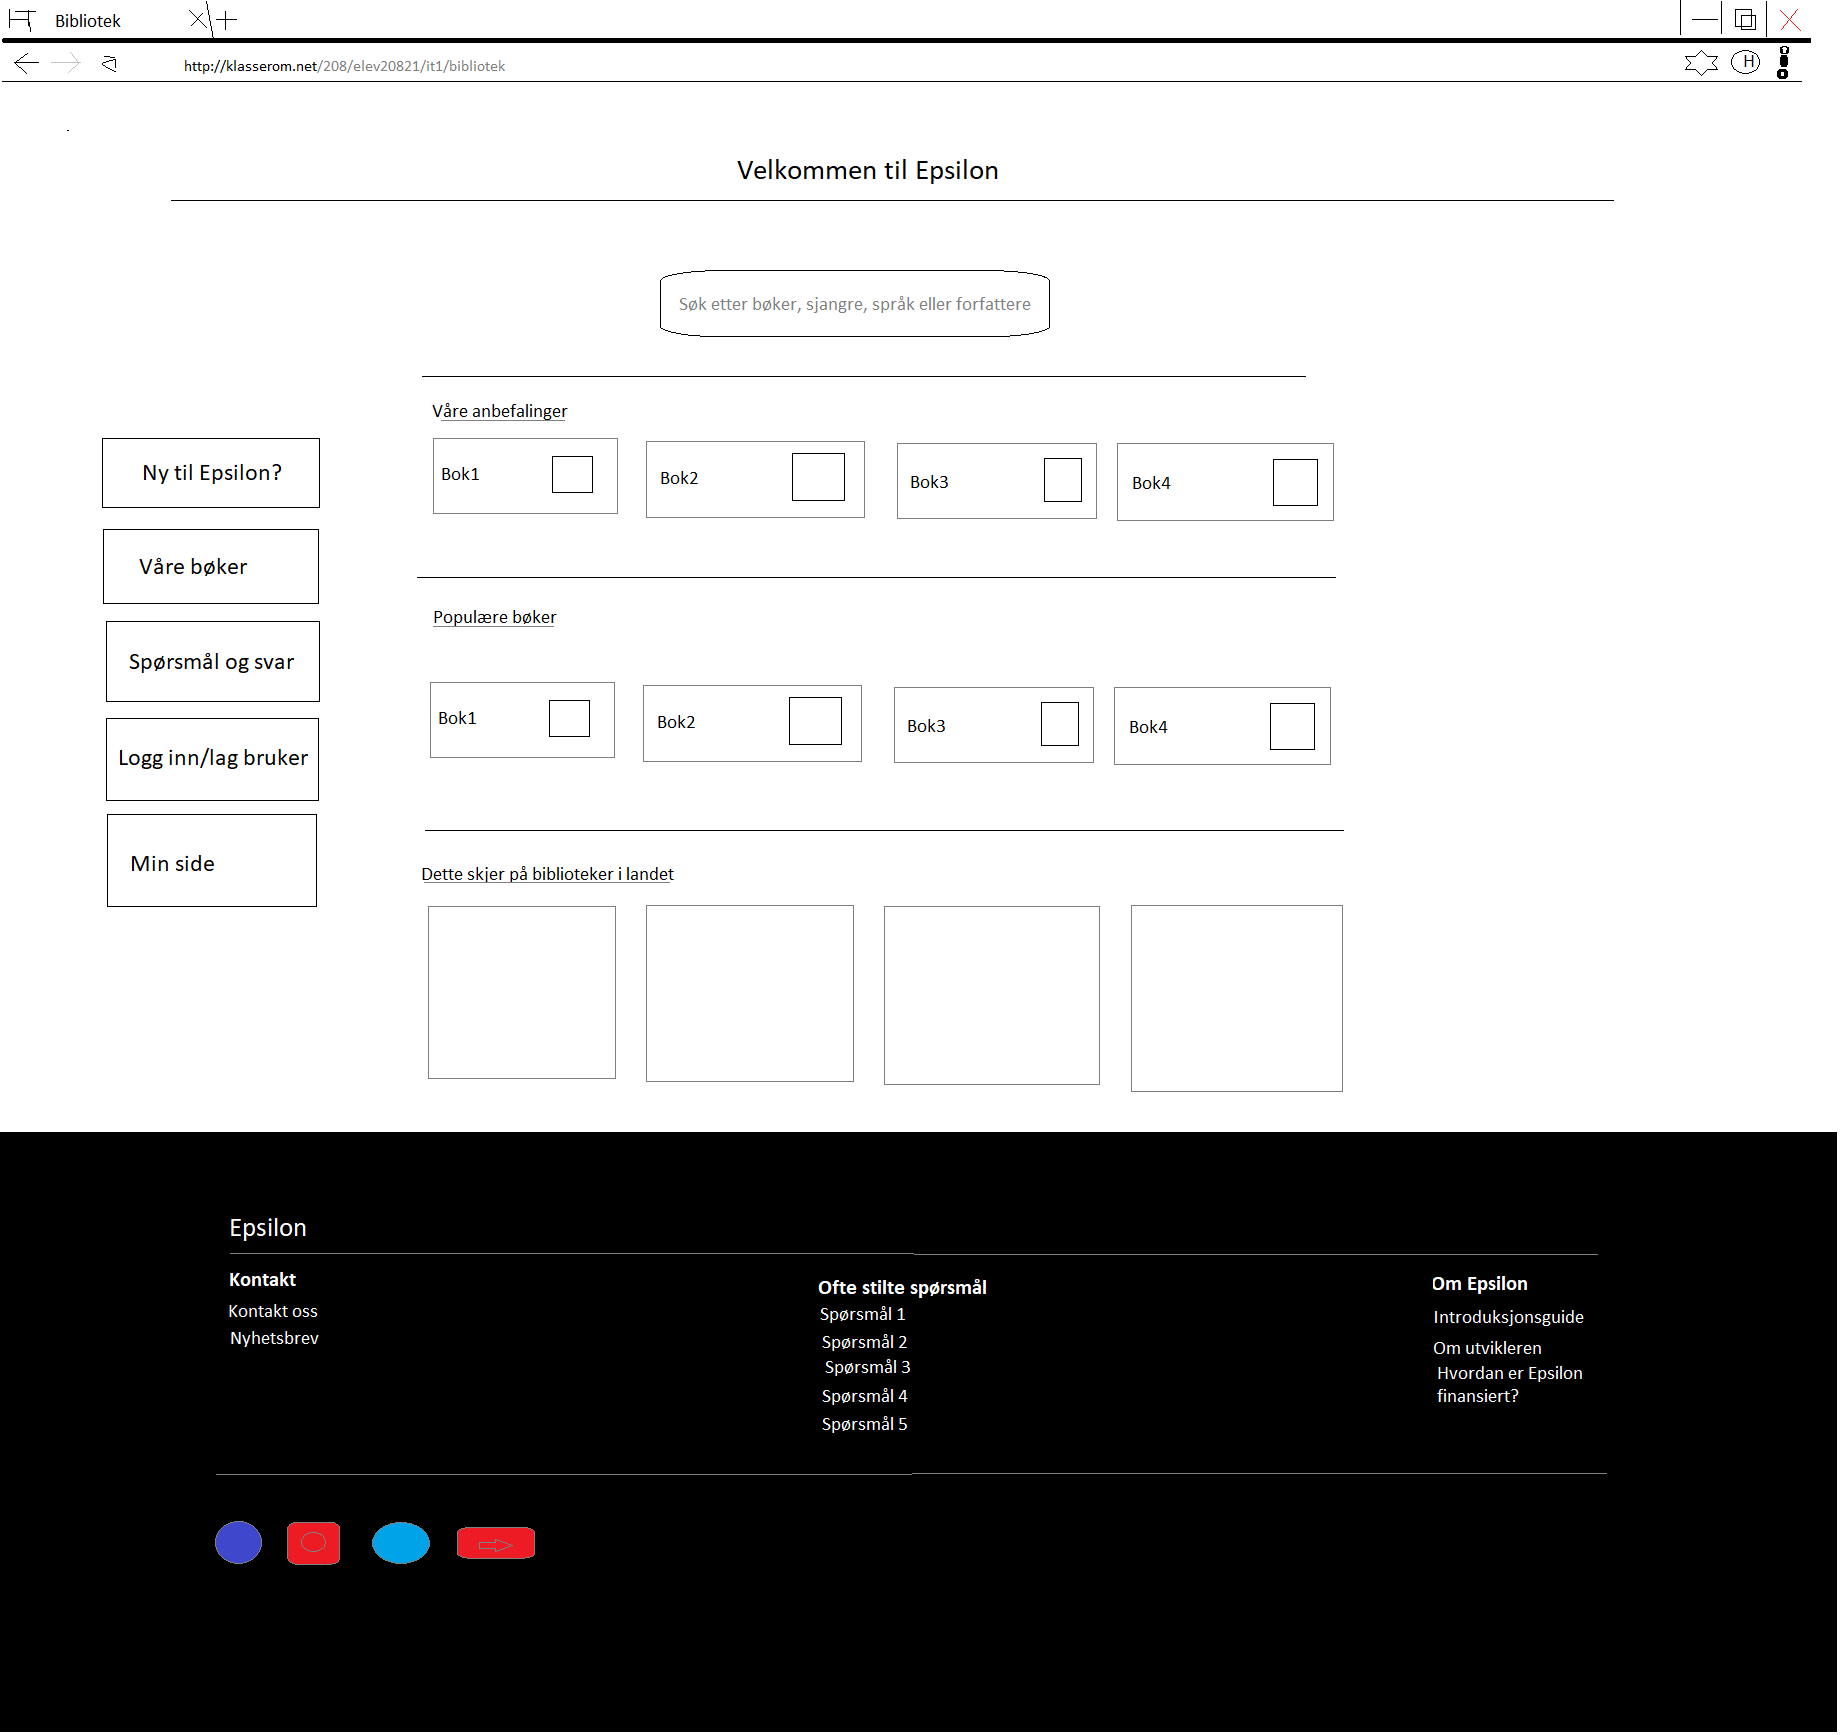
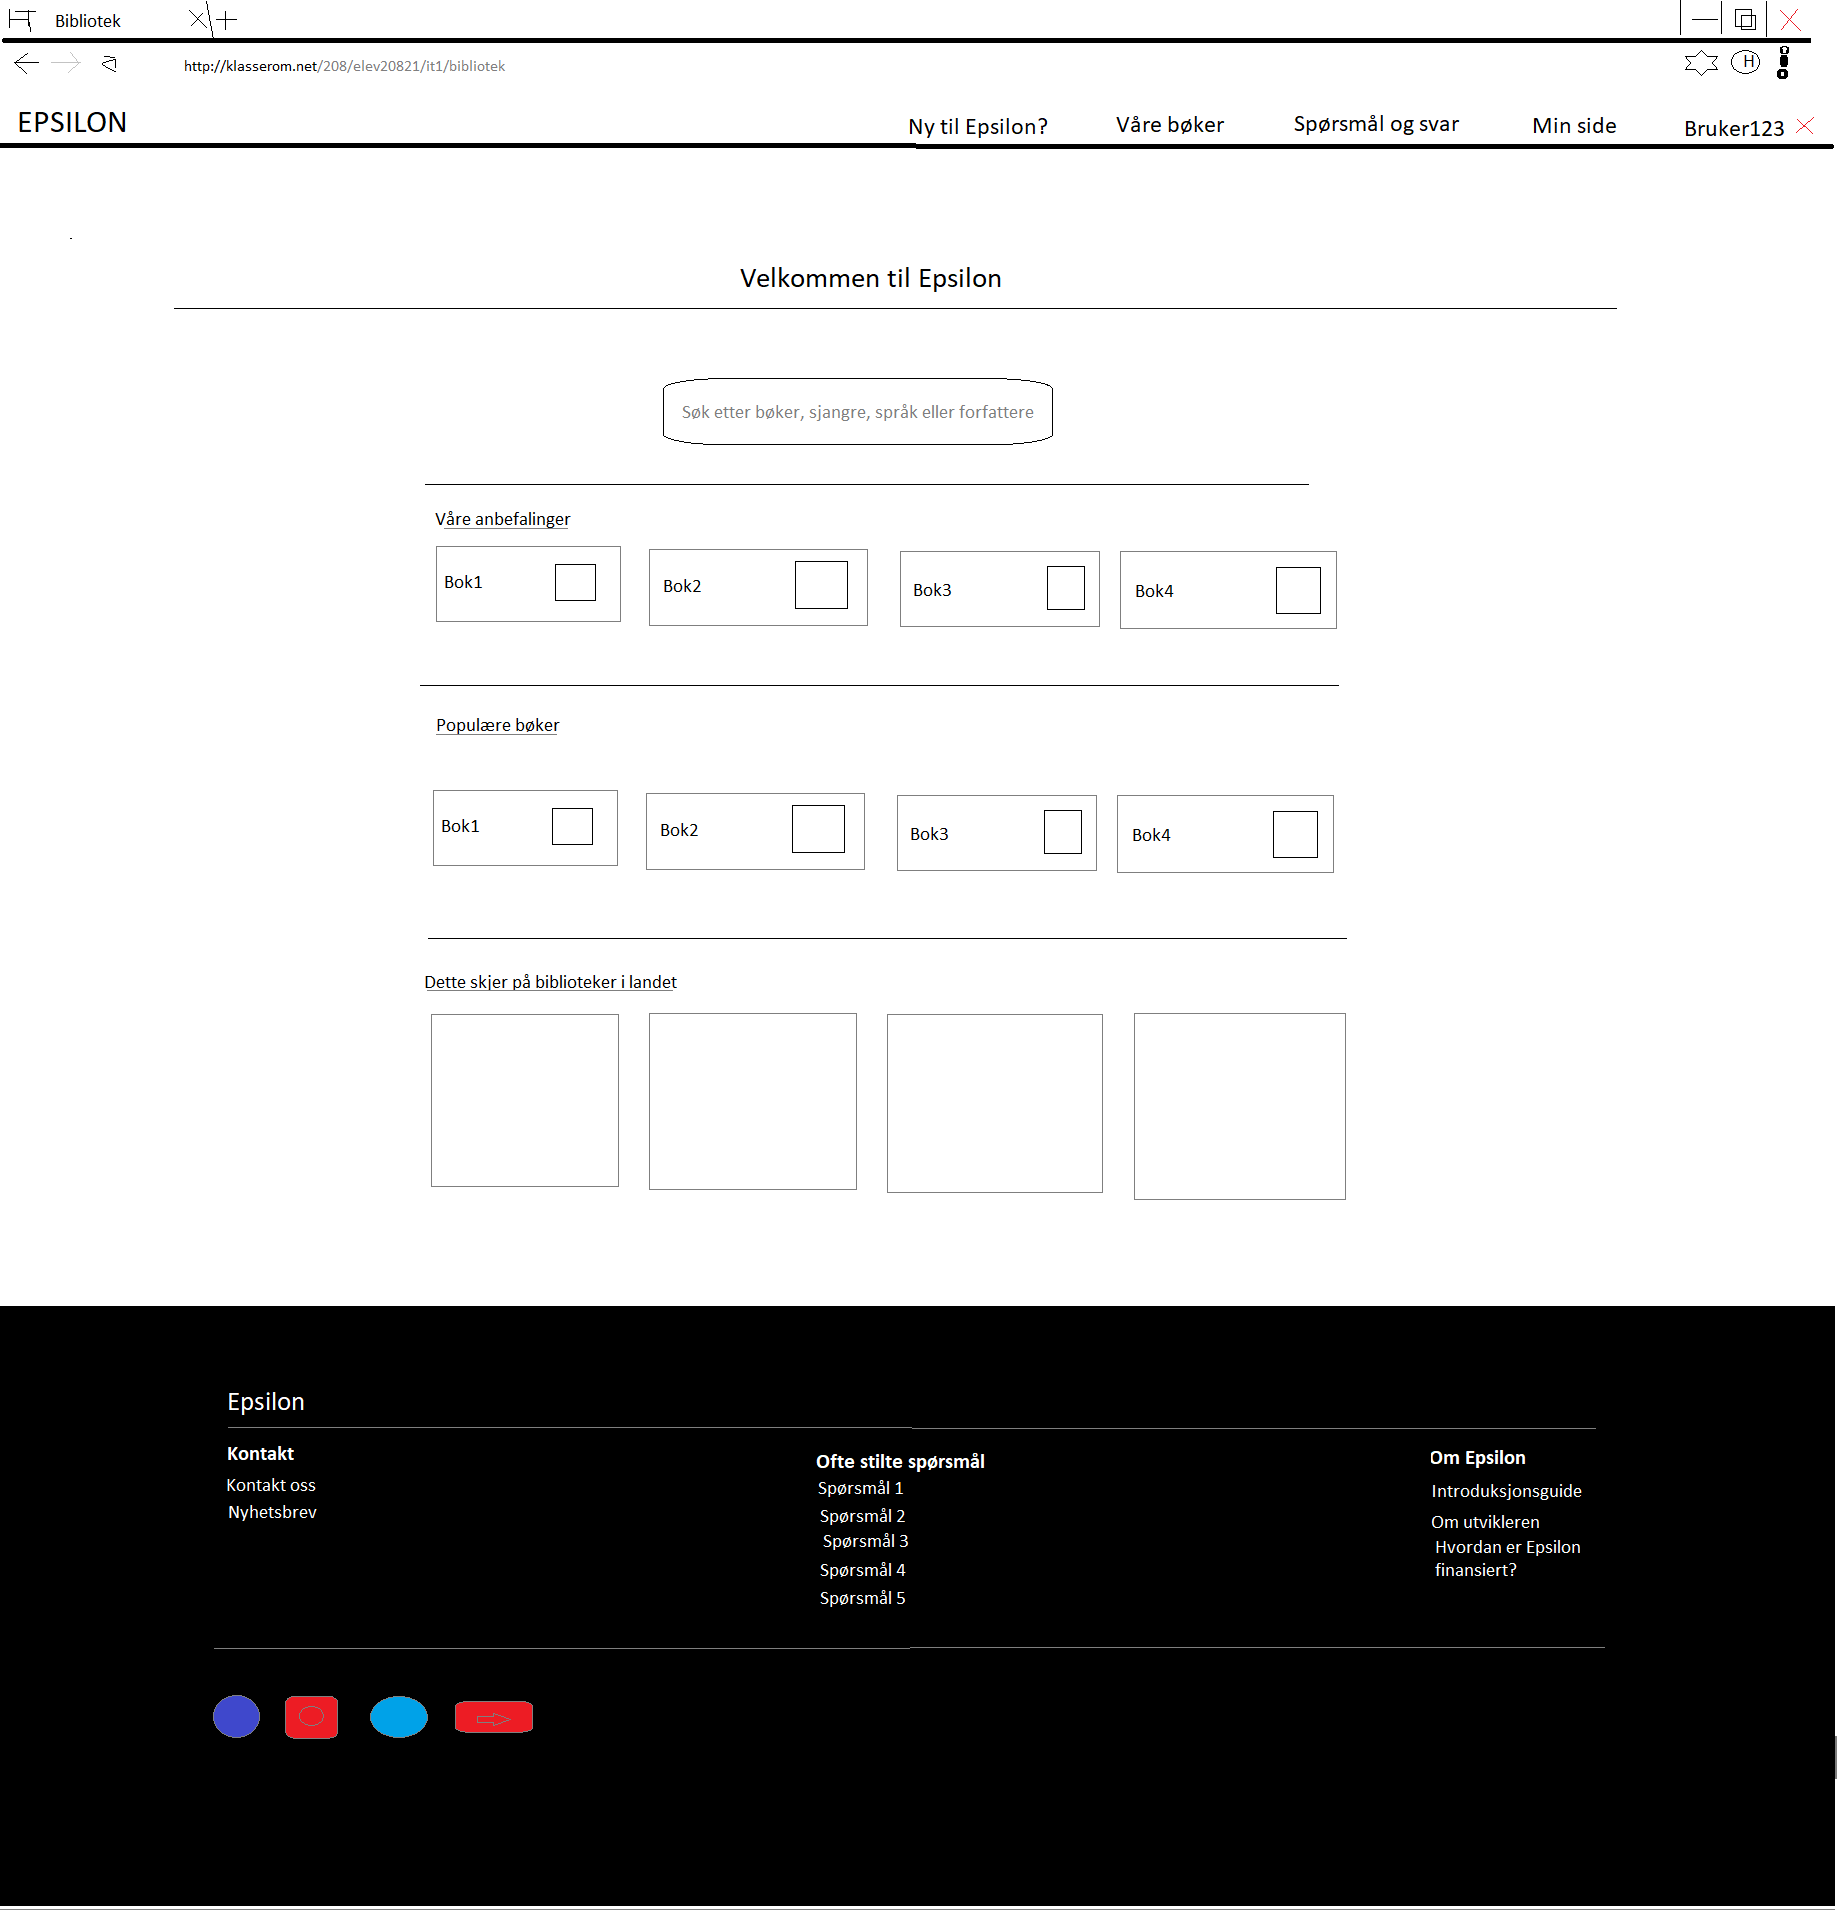
20.04.2020

diff --git a/Bibliotek/index.html b/Bibliotek/index.html
@@ -1,7 +1,7 @@
 <!DOCTYPE html>
 <html>
   <head>
-    <title>Hei!</title>
+    <title>Epsilon</title>
     <link rel="stylesheet" href="css/index.css" />
     <meta charset="UTF-8" />
     <!--<link rel="shortcut icon" href="logoer/favicon.ico" /> -->
@@ -9,19 +9,83 @@
 
   <body>
     <div id="master">
-      <div id="header">
-        <h1>Velkommen til Epsilon</h1>
-      </div>
-      <div id="søkefelt">
-        <p>Søk etter bøker, sjangre, språk eller forfattere</p>
-      </div>
-      <div id="nav-bar"></div>
+      <header class="header">
+        <h1 class="logo"><a href="#">Epsilon</a></h1>
+        <ul class="main-nav">
+          <li><a href="#">Ny til Epsilon?</a></li>
+          <li><a href="#">Våre bøker</a></li>
+          <li><a href="#">Spørsmål og svar</a></li>
+          <li><a href="#">Min side</a></li>
+          <li><a href="#">Bruker123</a></li>
+        </ul>
+      </header>
       <div id="content">
-        <div id="row-1"></div>
-        <div id="row-2">
-          <div class="Bok"></div>
+        <div id="tittel"><h1>Velkommen til Epsilon</h1></div>
+
+        <div id="søkefelt">
+          <form action="result.php" method="POST">
+            <input
+              type="text"
+              id="fornavn"
+              placeholder="Søk etter bøker, sjangre, språk eller forfattere"
+              name="Søk"
+              required
+            />
+
+            <button type="submit">Søk</button>
+          </form>
         </div>
-        <div id="row-3"></div>
+        <div class="row-container">
+          <hr class="linje" />
+          <p>Våre anbefalinger</p>
+          <div class="row">
+            <div class="Bok"><a href="#">bok1</a></div>
+            <div class="Bok"><a href="#">bok2</a></div>
+            <div class="Bok"><a href="#">bok3</a></div>
+            <div class="Bok"><a href="#">bok4</a></div>
+          </div>
+        </div>
+
+        <div class="row-container">
+          <hr class="linje" />
+          <p>Populære bøker</p>
+          <div class="row">
+            <div class="Bok"><a href="#">bok1</a></div>
+            <div class="Bok"><a href="#">bok2</a></div>
+            <div class="Bok"><a href="#">bok3</a></div>
+            <div class="Bok"><a href="#">bok4</a></div>
+          </div>
+        </div>
+        <div class="row-container">
+          <hr class="linje" />
+          <p>Dette skjer på biblioteker rundt om i landet</p>
+          <div class="row">
+            <div class="nyhet">
+              <a
+                href="https://www.ostlendingen.no/fylkesbiblioteket-gar-digitalt-stengte-bibliotek-er-et-demokratisk-problem/s/5-69-920391"
+                >Digitalt bibliotek</a
+              >
+            </div>
+            <div class="nyhet">
+              <a
+                href="https://www.ostlendingen.no/fylkesbiblioteket-gar-digitalt-stengte-bibliotek-er-et-demokratisk-problem/s/5-69-920391"
+                >Digitalt bibliotek</a
+              >
+            </div>
+            <div class="nyhet">
+              <a
+                href="https://www.ostlendingen.no/fylkesbiblioteket-gar-digitalt-stengte-bibliotek-er-et-demokratisk-problem/s/5-69-920391"
+                >Digitalt bibliotek</a
+              >
+            </div>
+            <div class="nyhet">
+              <a
+                href="https://www.ostlendingen.no/fylkesbiblioteket-gar-digitalt-stengte-bibliotek-er-et-demokratisk-problem/s/5-69-920391"
+                >Digitalt bibliotek</a
+              >
+            </div>
+          </div>
+        </div>
       </div>
       <div id="footer"></div>
     </div>

diff --git a/Bibliotek/css/index.css b/Bibliotek/css/index.css
@@ -1,29 +1,168 @@
-h1 {
-  font-size: 40px;
+* {
+  box-sizing: border-box;
 }
-
+body {
+  font-family: "Montserrat", sans-serif;
+  line-height: 1.6;
+  margin: 0;
+  min-height: 100vh;
+  overflow-x: hidden;
+}
 #master {
   position: absolute;
-  background-color: blue;
-  height: 100%;
-  width: 100%;
-  margin: -8px;
+
+  height: auto;
+  width: 100vw;
+}
+ul {
+  margin: 0;
+  padding: 0;
+  list-style: none;
 }
 
-#header {
-  position: relative;
-  background-color: red;
-  margin: auto;
-  width: 80%;
+h2,
+h3,
+a {
+  color: #34495e;
+}
+
+a {
+  text-decoration: none;
+}
+
+.logo {
+  margin: 0;
+  font-size: 1.45em;
+}
+
+.main-nav {
+  margin-top: 5px;
+  display: flex;
+}
+.logo a,
+.main-nav a {
+  padding: 10px 15px;
+  text-transform: uppercase;
   text-align: center;
+  display: block;
 }
 
+.main-nav a {
+  color: #34495e;
+  font-size: 0.99em;
+}
+
+.main-nav a:hover {
+  color: #718daa;
+}
+
+.header {
+  display: flex;
+  height: 8vh;
+  padding-top: 0.5em;
+  padding-bottom: 0.5em;
+  border: 1px solid #a2a2a2;
+  background-color: #f4f4f4;
+  -webkit-box-shadow: 0px 0px 14px 0px rgba(0, 0, 0, 0.75);
+  -moz-box-shadow: 0px 0px 14px 0px rgba(0, 0, 0, 0.75);
+  box-shadow: 0px 0px 14px 0px rgba(0, 0, 0, 0.75);
+  -webkit-border-radius: 5px;
+  -moz-border-radius: 5px;
+  border-radius: 5px;
+  flex-direction: row;
+  justify-content: space-between;
+}
+
+#tittel {
+  padding-top: 10px;
+  margin: auto;
+  height: 10vh;
+  width: 90%;
+  text-align: center;
+  border-bottom: 3px solid black;
+}
 #søkefelt {
   position: relative;
-  text-align: center;
-  background-color: red;
-  border: 3px solid black;
+  width: 35vw;
+  height: 7vh;
+  margin-left: auto;
+  margin-right: auto;
+  margin-top: 3%;
+}
+
+#søkefelt input {
+  position: absolute;
+  width: 100%;
+  height: 100%;
+  background-color: #f4f4f4;
+  border: 2px solid black;
   border-radius: 25px;
-  width: 20%;
+  font-size: 25px;
+}
+
+#søkefelt button {
+  position: absolute;
+  width: 15%;
+  height: 100%;
+  margin-left: 86%;
+  background-color: #b4b1b1;
+  border: 2px solid black;
+  border-radius: 25px;
+  font-size: 25px;
+}
+
+#content {
+  position: relative;
+  height: auto;
+  width: 60%;
   margin: auto;
+  margin-top: 30px;
+  box-shadow: 5px 5px 50px grey;
+  border-radius: 10px;
+}
+
+.row-container {
+  margin: 30px;
+  justify-content: flex-start;
+}
+
+.row-container p {
+  margin-left: 15%;
+  text-decoration: underline darkslategrey;
+}
+
+.linje {
+  width: 70%;
+  border-color: rgb(0, 0, 0);
+}
+.row {
+  display: flex;
+  margin: auto;
+  margin-top: 2%;
+  text-align: center;
+  position: relative;
+  height: 150px;
+  width: 70%;
+
+  flex-direction: row;
+  justify-content: space-between;
+}
+.Bok {
+  margin: 5px;
+  height: 75px;
+  display: flex;
+  border: 1px solid black;
+  width: 20%;
+  padding: 5px;
+  font-size: 30px;
+}
+
+.nyhet {
+  margin: 5px;
+  height: cover;
+  display: flex;
+  border: 1px solid black;
+  width: 20%;
+  padding: 5px;
+  font-size: 30px;
 }
